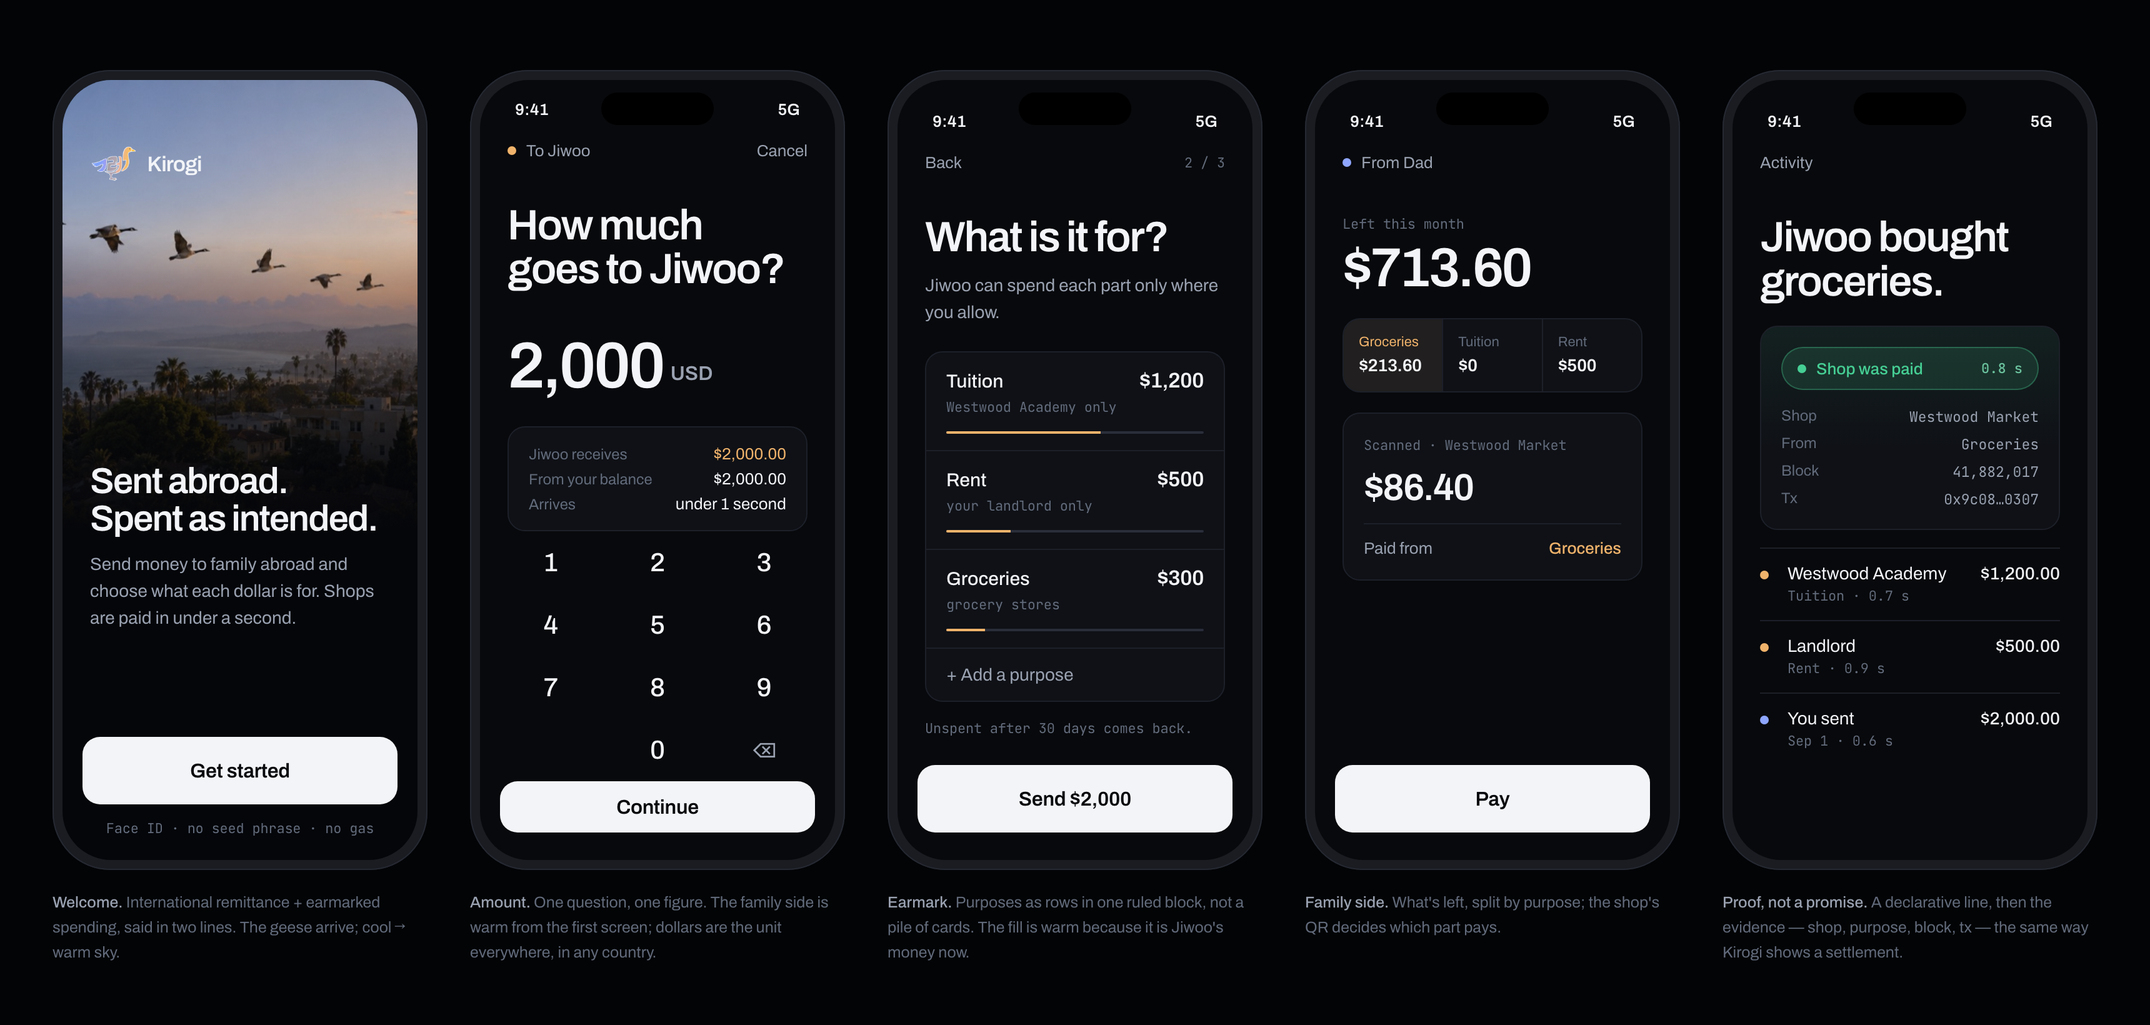
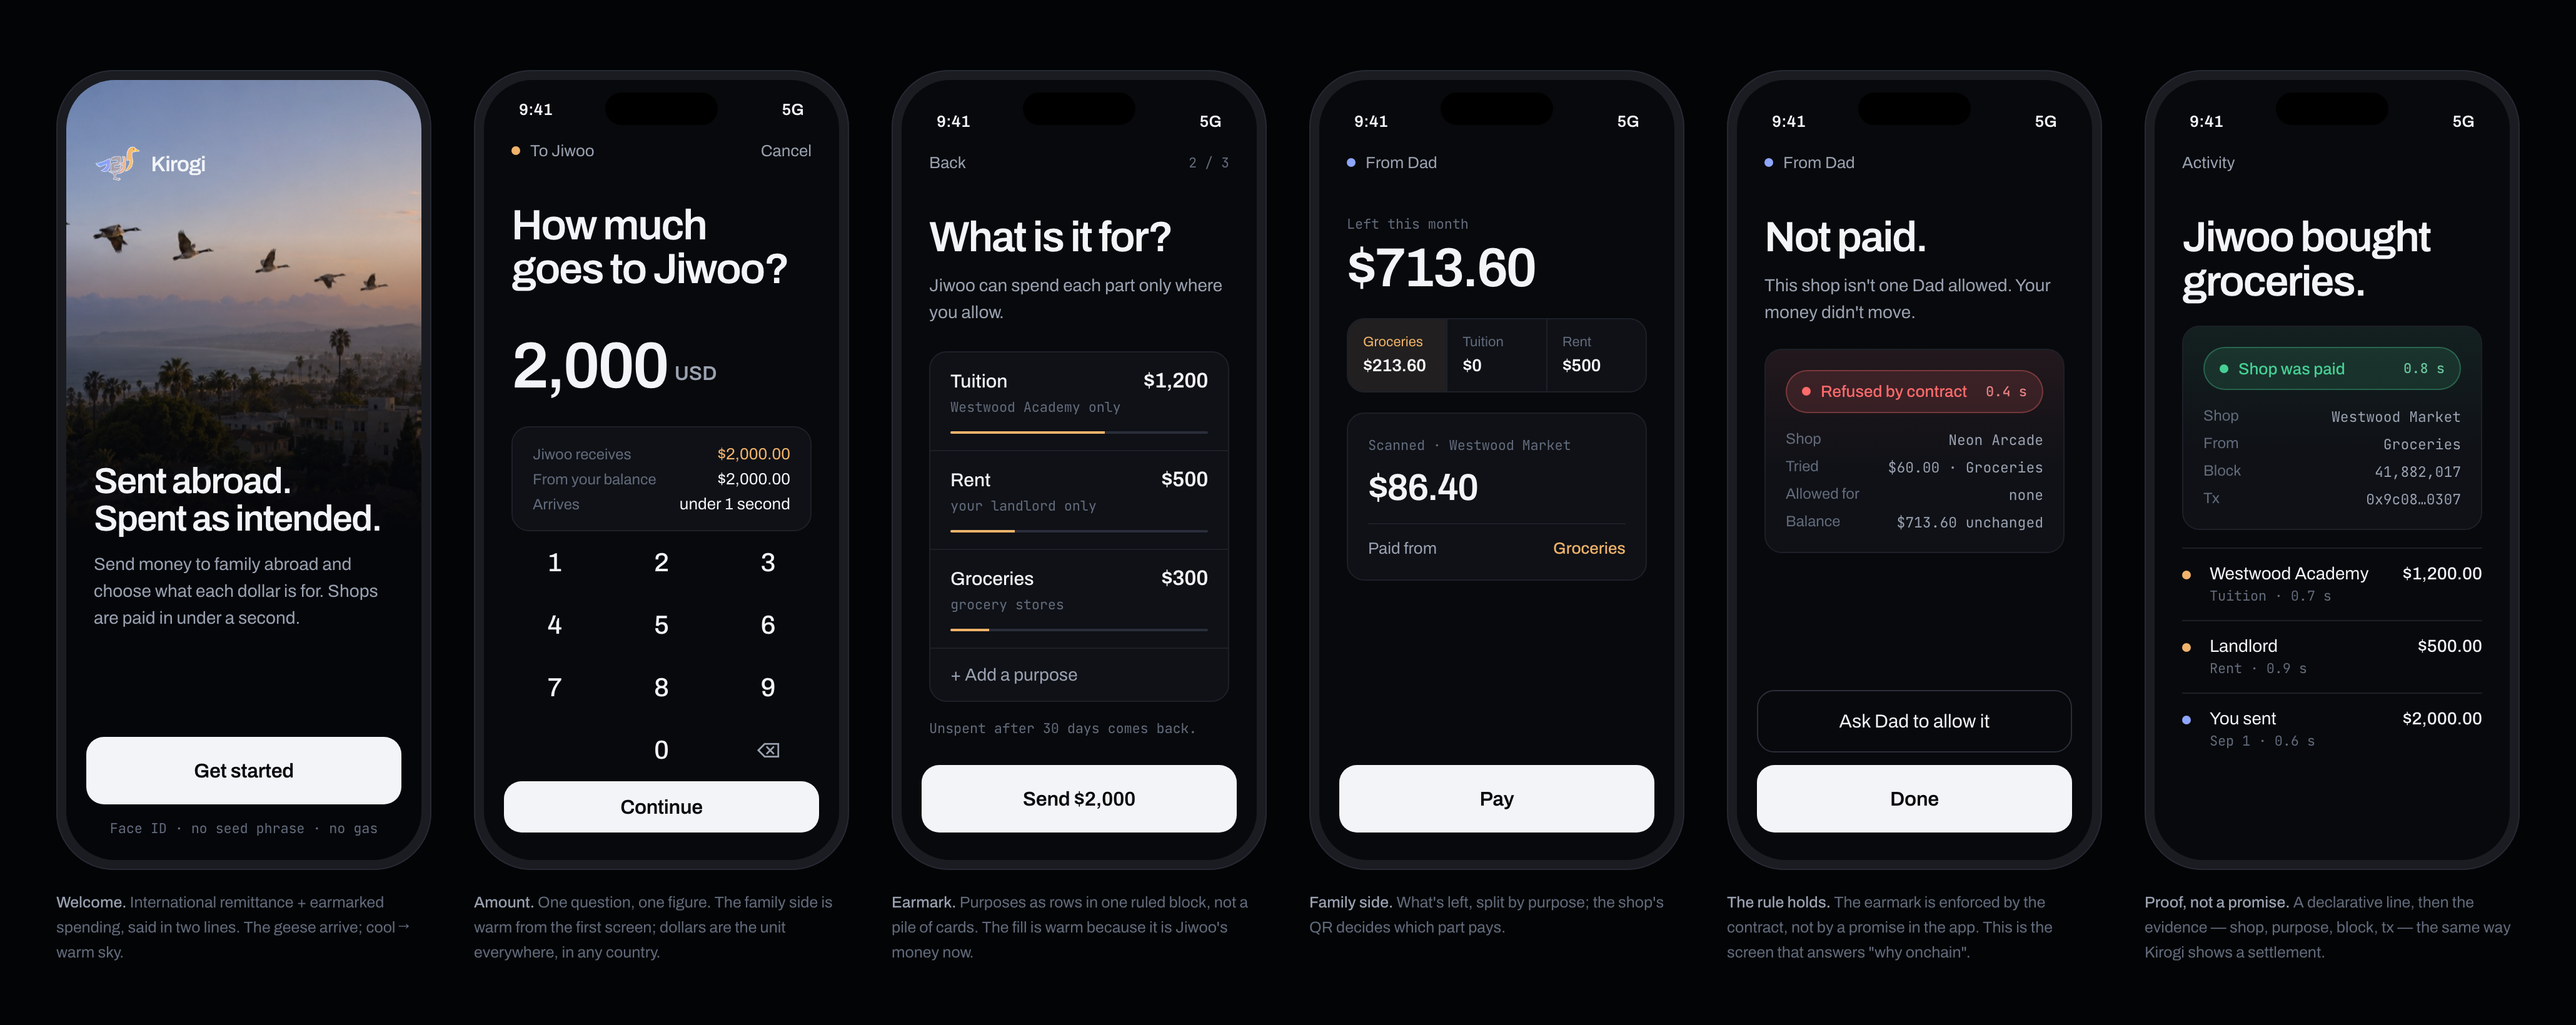
design: 컨트랙트 거절 화면 추가 — 지정 사용이 실제로 강제됨을 보여줌

diff --git a/design/kirogi-dna.html b/design/kirogi-dna.html
@@ -13,7 +13,7 @@
   :root{
     --ink:#08090c; --raised:#0f1116; --surface:#14161d; --line:#1d2029; --line-bright:#2a2e3a;
     --text:#f2f4f7; --dim:#9aa2b1; --faint:#626b7b;
-    --send:#8fa6ff; --home:#f0b36b; --pass:#46cf95;
+    --send:#8fa6ff; --home:#f0b36b; --pass:#46cf95; --fail:#ff6b6b;
     --display:"Archivo",-apple-system,sans-serif; --ko:"Pretendard",var(--display); --mono:"JetBrains Mono",ui-monospace,monospace;
   }
   *{box-sizing:border-box;margin:0;padding:0}
@@ -82,6 +82,11 @@
   .welcome .img::after{content:"";position:absolute;inset:0;background:linear-gradient(180deg,rgba(5,6,10,.15) 0%,rgba(5,6,10,0) 35%,rgba(5,6,10,.85) 88%,#05060a 100%)}
   .brand{position:absolute;top:52px;left:22px;z-index:2;display:flex;align-items:center;gap:8px;font-weight:600;letter-spacing:-.03em;font-size:17px}
   .brand img{height:30px}
+
+  .verdict.fail{background:linear-gradient(180deg,color-mix(in oklab,var(--fail) 8%,transparent),transparent 60%),var(--raised)}
+  .pill.fail{color:var(--fail);background:color-mix(in oklab,var(--fail) 13%,transparent);border-color:color-mix(in oklab,var(--fail) 32%,transparent)}
+  .pill.fail .note{color:color-mix(in oklab,var(--fail) 70%,var(--dim))}
+  .ghost{margin:0 16px 10px;height:50px;border-radius:14px;border:1px solid var(--line-bright);color:var(--text);font-size:15px;display:flex;align-items:center;justify-content:center}
   .cap{width:300px;margin-top:16px;color:var(--faint);font-size:12.5px;line-height:1.6}
   .cap b{color:var(--dim);font-weight:500}
 </style>
@@ -164,6 +169,29 @@
   <div class="btn" style="margin-top:auto">Pay</div>
 </div></div>
 <p class="cap"><b>Family side.</b> What's left, split by purpose; the shop's QR decides which part pays.</p></div>
+
+
+<!-- 3b · refused -->
+<div><div class="phone"><div class="scr">
+  <div class="island"></div><div class="sb"><span>9:41</span><span>5G</span></div>
+  <div class="pad">
+    <div class="top"><span class="who"><span class="dot" style="background:var(--send)"></span>From Dad</span></div>
+    <h1 class="display d1" style="margin-top:22px">Not paid.</h1>
+    <p class="lede">This shop isn't one Dad allowed. Your money didn't move.</p>
+    <div class="card verdict fail">
+      <div class="pill fail"><span class="dot" style="background:var(--fail)"></span>Refused by contract<span class="note">0.4 s</span></div>
+      <dl class="kv">
+        <dt>Shop</dt><dd>Neon Arcade</dd>
+        <dt>Tried</dt><dd>$60.00 · Groceries</dd>
+        <dt>Allowed for</dt><dd>none</dd>
+        <dt>Balance</dt><dd>$713.60 unchanged</dd>
+      </dl>
+    </div>
+  </div>
+  <div class="ghost" style="margin-top:auto">Ask Dad to allow it</div>
+  <div class="btn">Done</div>
+</div></div>
+<p class="cap"><b>The rule holds.</b> The earmark is enforced by the contract, not by a promise in the app. This is the screen that answers "why onchain".</p></div>
 
 <!-- 4 · sender sees it land -->
 <div><div class="phone"><div class="scr">
